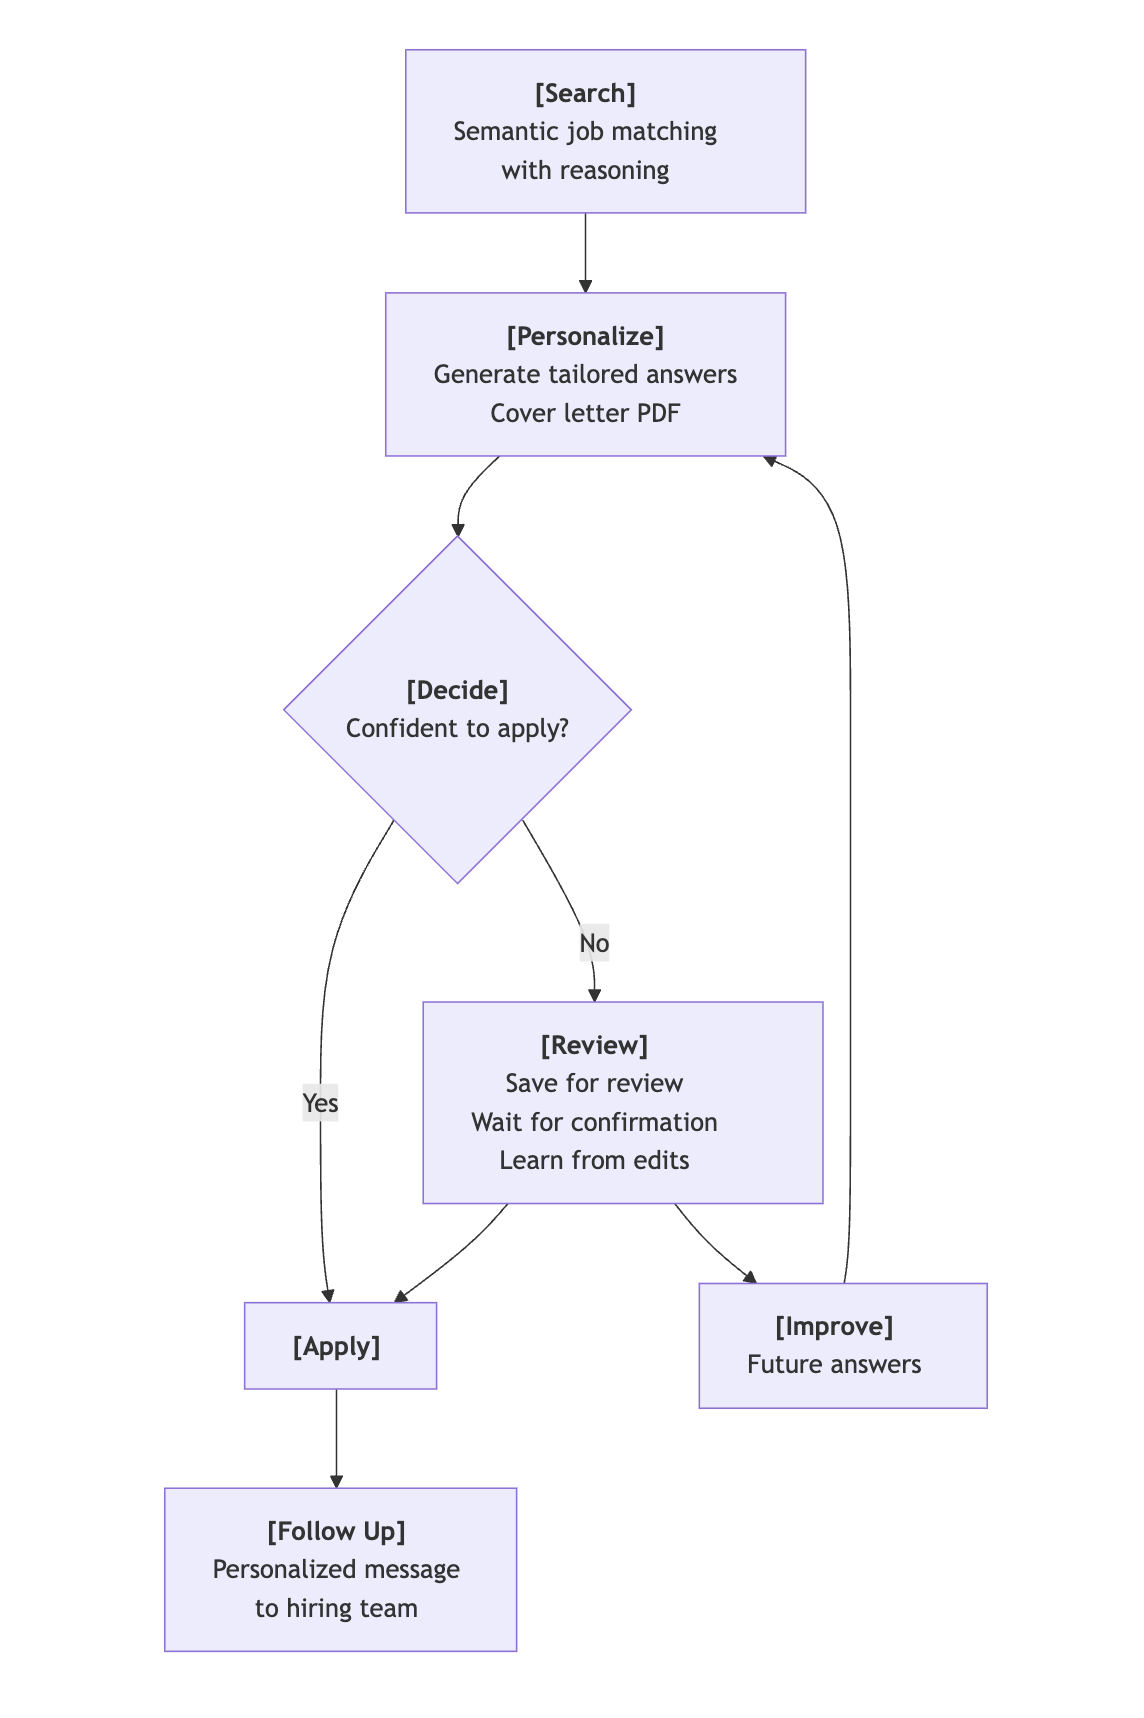
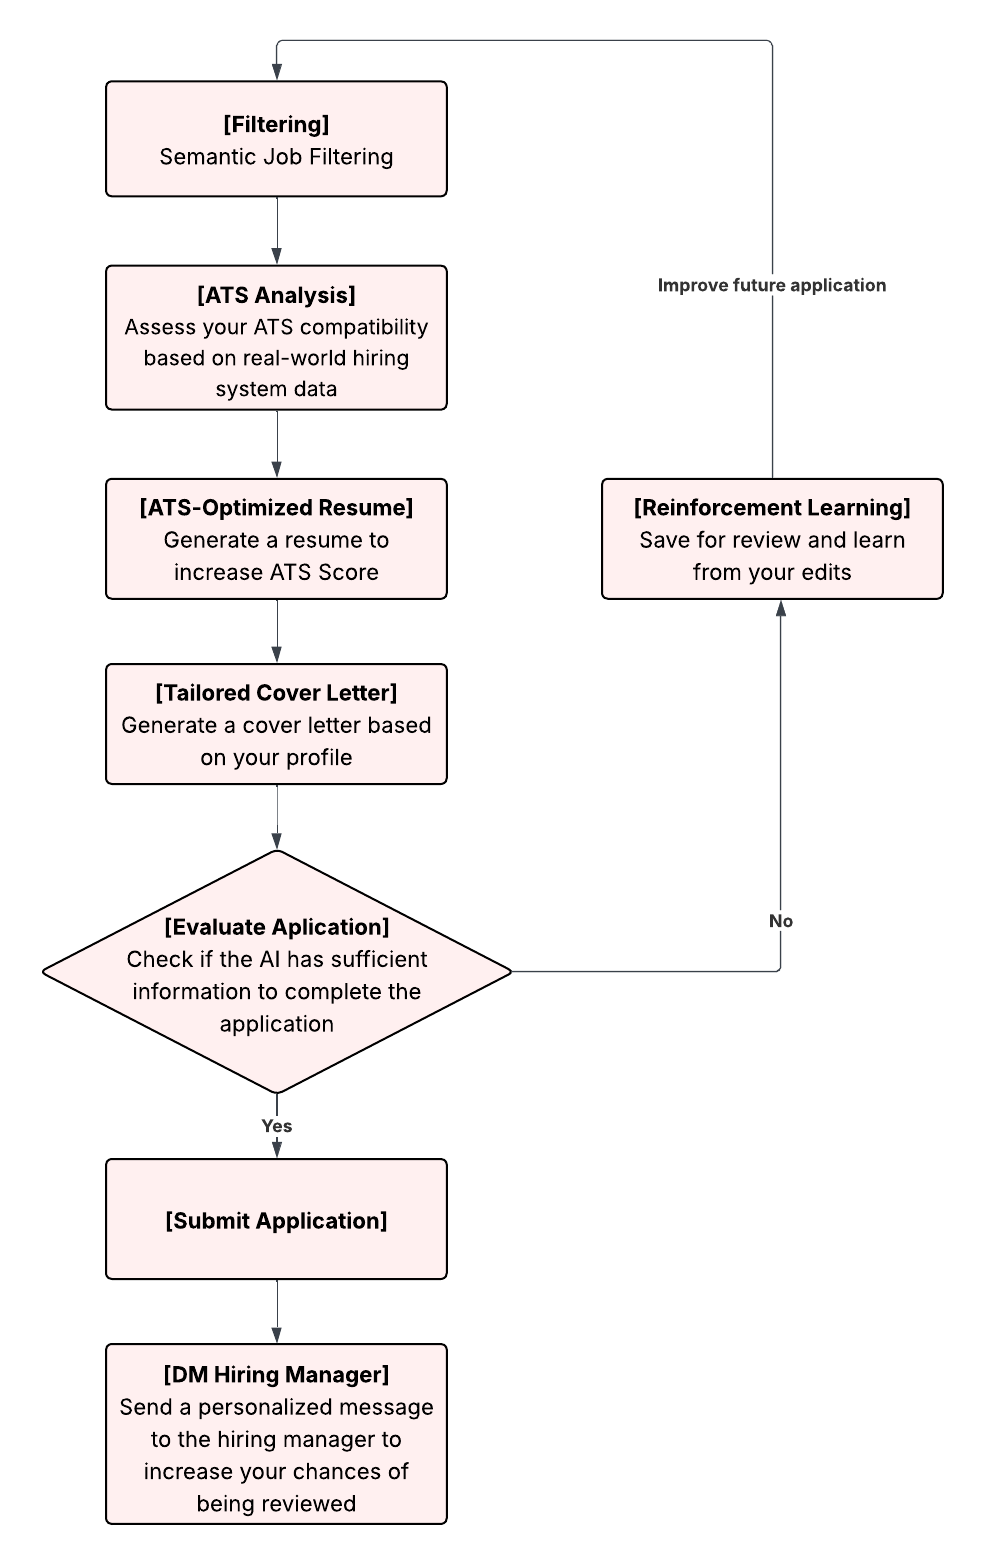
upgraded to 1.8.0

diff --git a/README.md b/README.md
@@ -16,11 +16,10 @@
   </a>
 </p>
 
-Latest Update: May 25, 2025
+Latest Update: June 16, 2025 (v1.8.0)
 
-- [New Feature]: Integrated ATS scoring into the job evaluation process and job submission queue. ([TikTok Demo](https://www.tiktok.com/@yuqili657/video/7508559462077041926))
-- [New Feature]: Allowed to sort history table columns from A to Z. ([TikTok Demo](https://www.tiktok.com/@yuqili657/video/7510074106956532998))
-- [UX Improvement]: Enhanced job matching based on your prompt in “What jobs are you looking for?”
+- [New Feature]: Generate ATS-optimized resume for each job application.
+- [New Feature]: Increased Premium user quota to 35-45 applications per day.
 
 ## About JobHuntr.fyi
 
@@ -50,8 +49,11 @@ Click to view [Generated sample cover letter](src/sample_cover_letter.pdf)
 
 | ✅ Feature               | 💡 Description                                                                        |
 | ------------------------ | ------------------------------------------------------------------------------------- |
+| 📋 Generate ATS Resume   | Generate ATS-optimized resume for each job application.                               |
+| 📄 Generate cover letter | Generate a personalized cover letter for all applications that require one.           |
+| 🔄 Submit high quality   | Submit high quality answers, no spam.                                                 |
+| 🎓 Iterative learning    | Usually need review around 10, then you can let it free run.                          |
 | 🎯 Auto Apply            | Automatically applies to new jobs 24/7 in the background.                             |
-| 🔄 Review before submit  | Applications can be saved to the "Queue" before submission.                           |
 | 🧠 Smart Filtering       | Skips jobs that don't match your resume and custom filters.                           |
 | 🚫 Company Blacklist     | Exclude specific companies from job applications. Defaults to your past employers.    |
 | 📎 Show References       | Every answered question is backed by content from your resume or FAQs.                |
@@ -59,7 +61,6 @@ Click to view [Generated sample cover letter](src/sample_cover_letter.pdf)
 | 📊 Progress Tracking     | Saves application history and tracks which FAQs you've seen or answered.              |
 | ⏭ Skip Questions        | Automatically skips optional or non-critical application questions.                   |
 | ⏸ Pause/Resume          | Start or stop the auto-apply agent at any time.                                       |
-| 📄 Generate cover letter | Generate a personalized cover letter for all applications that require one.           |
 | 📧 DM to hiring team     | Send a personalized note to the hiring team after applying.                           |
 | 🧾 AI Reasoning          | View the AI's step-by-step decision-making for each application.                      |
 | ⚡ Cloud AI              | Uses a faster cloud-based AI model with improved matching and answering capabilities. |

diff --git a/PRICING.md b/PRICING.md
@@ -14,19 +14,16 @@ You can subscribe by clicking the subscribe button located on the top left corne
 
 Before upgrading to Premium, consider these options to maximize your free usage:
 
-1. **Try Ollama Models First**: Test our Ollama models to evaluate if they meet your application quality requirements.
-
-2. **Referral Program**: Share your invitation code with friends to earn additional free trials:
-   - Each successful referral earns you 100 free trials
-   - No limit on the number of referrals
-   - More referrals = more free trials
+**Try Ollama Models First**: Test our Ollama models to evaluate if they meet your application quality requirements.
 
 ## Feature Comparison
 
 | Feature                 | Premium                           | Free     |
 | ----------------------- | --------------------------------- | -------- |
-| AI Model                | GPT-4o                            | Ollama   |
+| AI Model                | GPT-4o + Claude 4 Sonnet          | Ollama   |
 | Activity Logs           | Detailed with AI thinking process | Basic    |
+| ATS Resume Generation   | Automated per application         | Manual   |
+| Daily quota             | 35-45 applications                | 10       |
 | Cover Letter Generation | Automated per application         | Manual   |
 | Follow-up Connections   | Automated with personalized notes | Manual   |
 | Application Quality     | Advanced                          | Standard |
